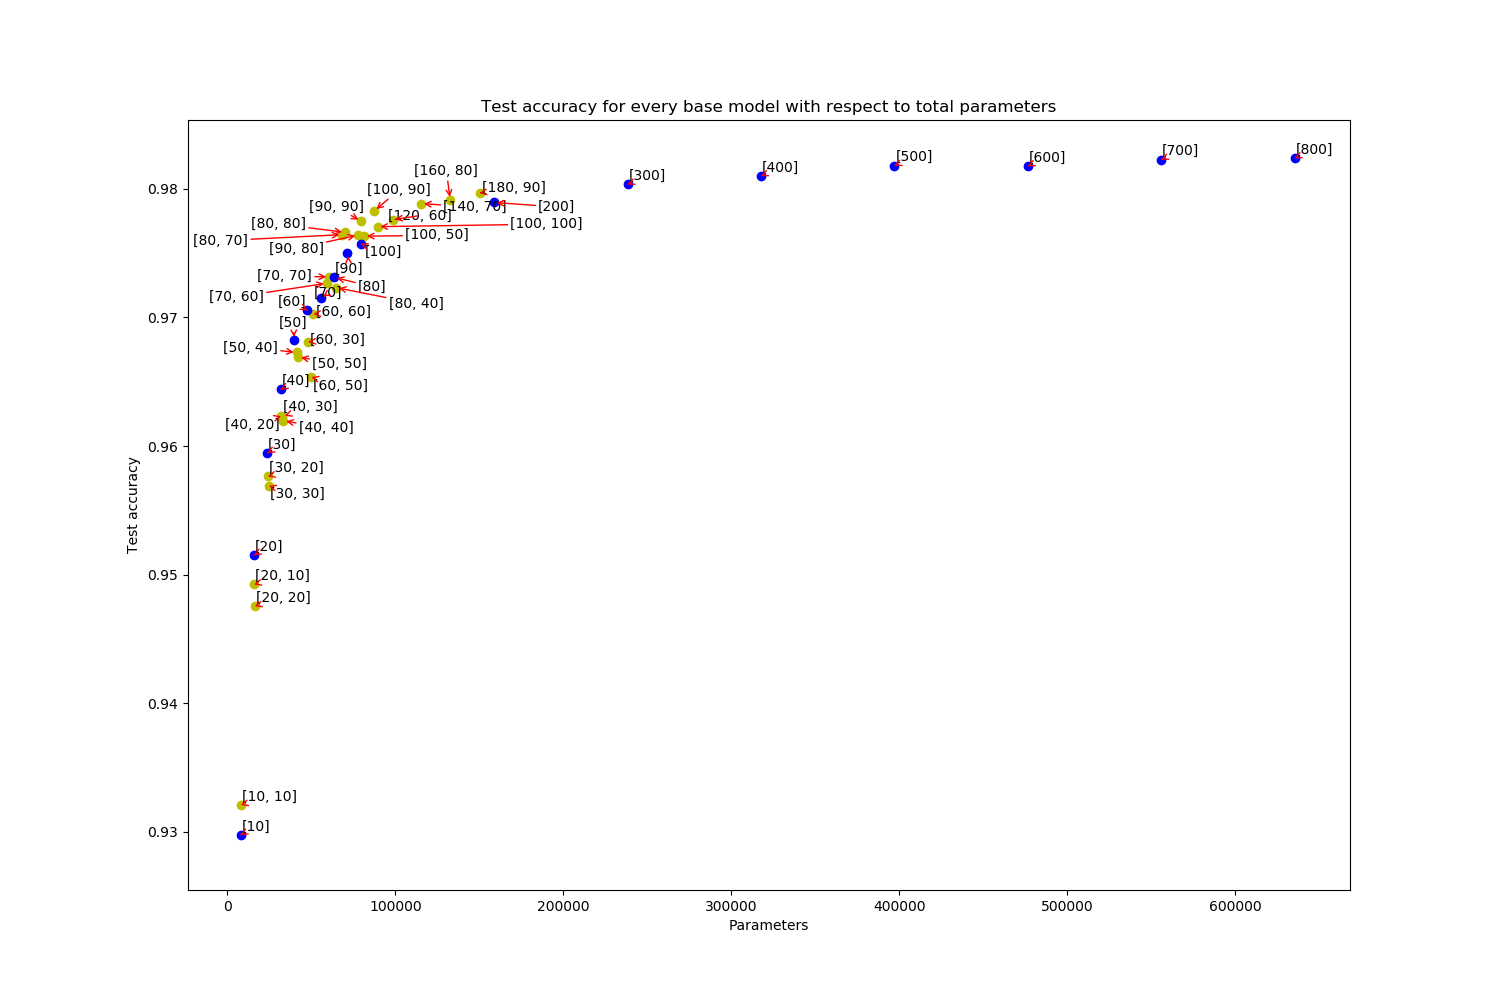
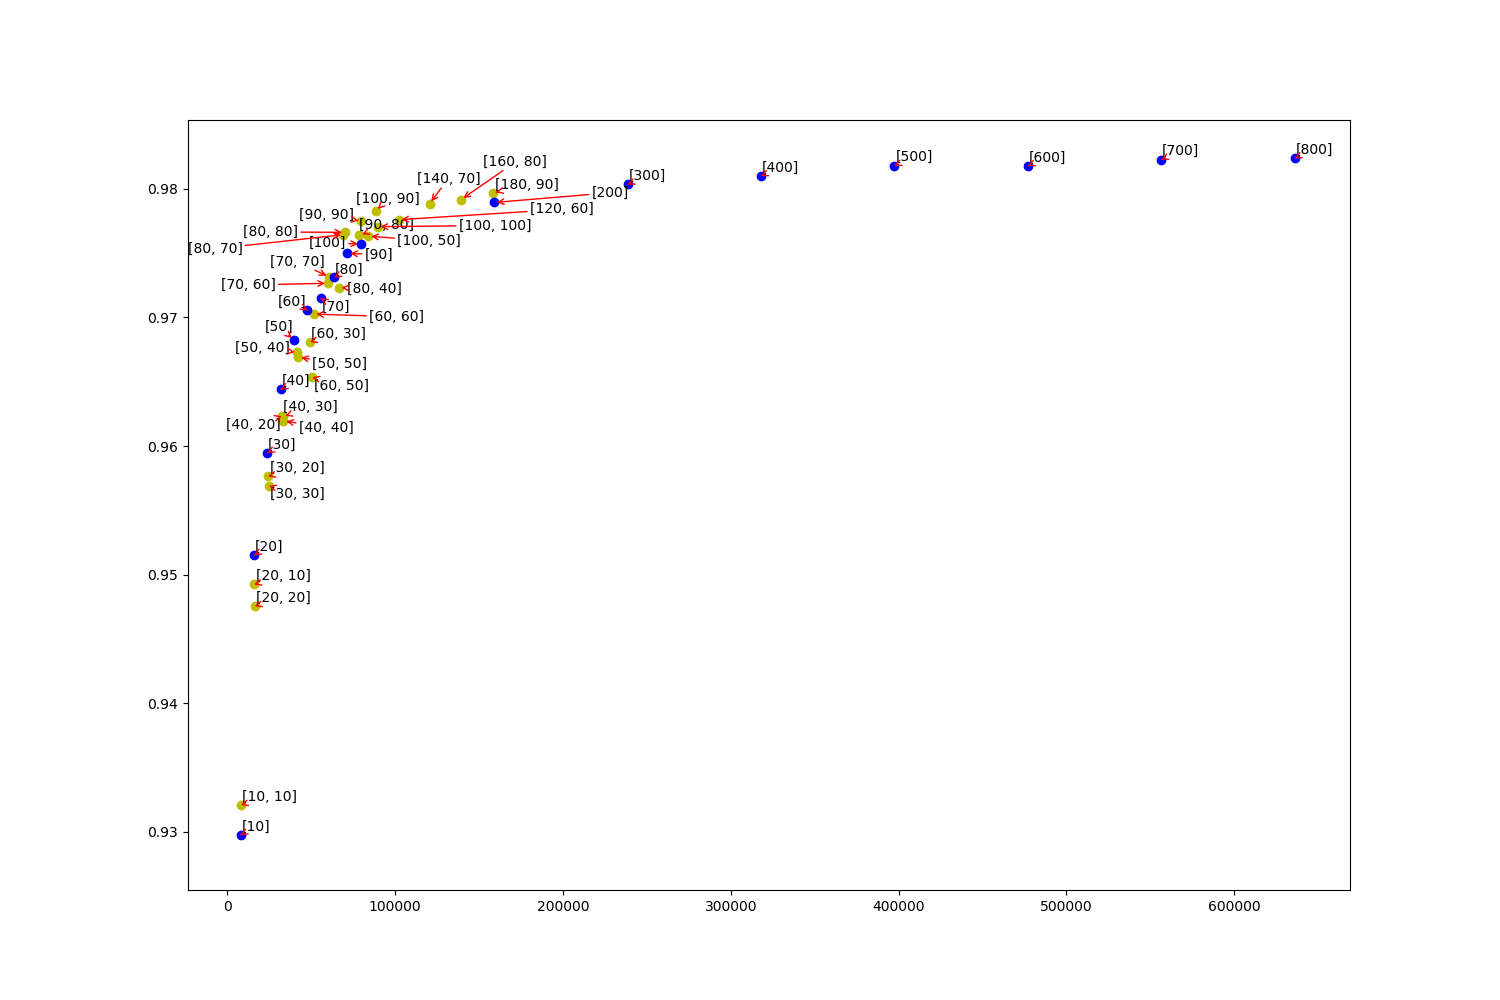
plots gefixt, aantal operaties klopte niet. zijn er nu meer voor diepe netwerken

diff --git a/src/neuralnet/results_analysis.py b/src/neuralnet/results_analysis.py
@@ -91,30 +91,33 @@ def operations_plot(models):
     #     'pgf.texsystem': 'xelatex'
     # }
     # mpl.rcParams.update(params)
-    with open('../plots/more than 2 layers.txt', 'w') as writer1:
+    with open('../plots/2 layers.txt', 'w') as writer1:
         writer1.write(str(('ops', 'acc', 'layer structure')) + '\n')
-        with open('../plots/2 layers.txt', 'w') as writer2:
+        with open('../plots/1 layers.txt', 'w') as writer2:
             writer2.write(str(('ops', 'acc', 'layer structure')) + '\n')
             for model in models:
                 acc = model.overall_test_accuracy
                 layers = model.model[0]['info']['netparams']['hidden_layers']
-                operations = 784*layers[0]+10*layers[-1]
-                for hu in layers[1:]:
-                    operations += hu*hu
+                operations = 784*layers[0]+10*layers[-1] + layers[0] + 10
+                for i in range(1, len(layers)):
+                    #weights + bias
+                    operations += layers[i-1]*layers[i]+layers[i]
+                print("%s has %g operations" %(layers, operations))
                 fig = plt.gcf()
                 fig.set_size_inches(15,10)
 
-                if len(layers) == 2:
+                if len(layers) == 1:
                     plt.scatter(operations, acc, color='b')
                     texts.append(plt.text(operations, acc, str(layers), ha='center', va='bottom'))
-                    writer2.write(str((operations, acc, layers)) + '\n')
-                if len(layers) > 2:
+                    # writer2.write(str((operations, acc, layers)) + '\n')
+                if len(layers) == 2:
                     plt.scatter(operations, acc, color='y')
                     texts.append(plt.text(operations, acc, str(layers), ha='center', va='bottom'))
                     writer1.write(str((operations, acc, layers)) + '\n')
 
+    adjust_text(texts, arrowprops=dict(arrowstyle='->', color='red'))
+    plt.savefig('../plots/1 layer and 2 layers.png')
     plt.show()
-
 
 def load_models():
     #returns a list of Model objects
